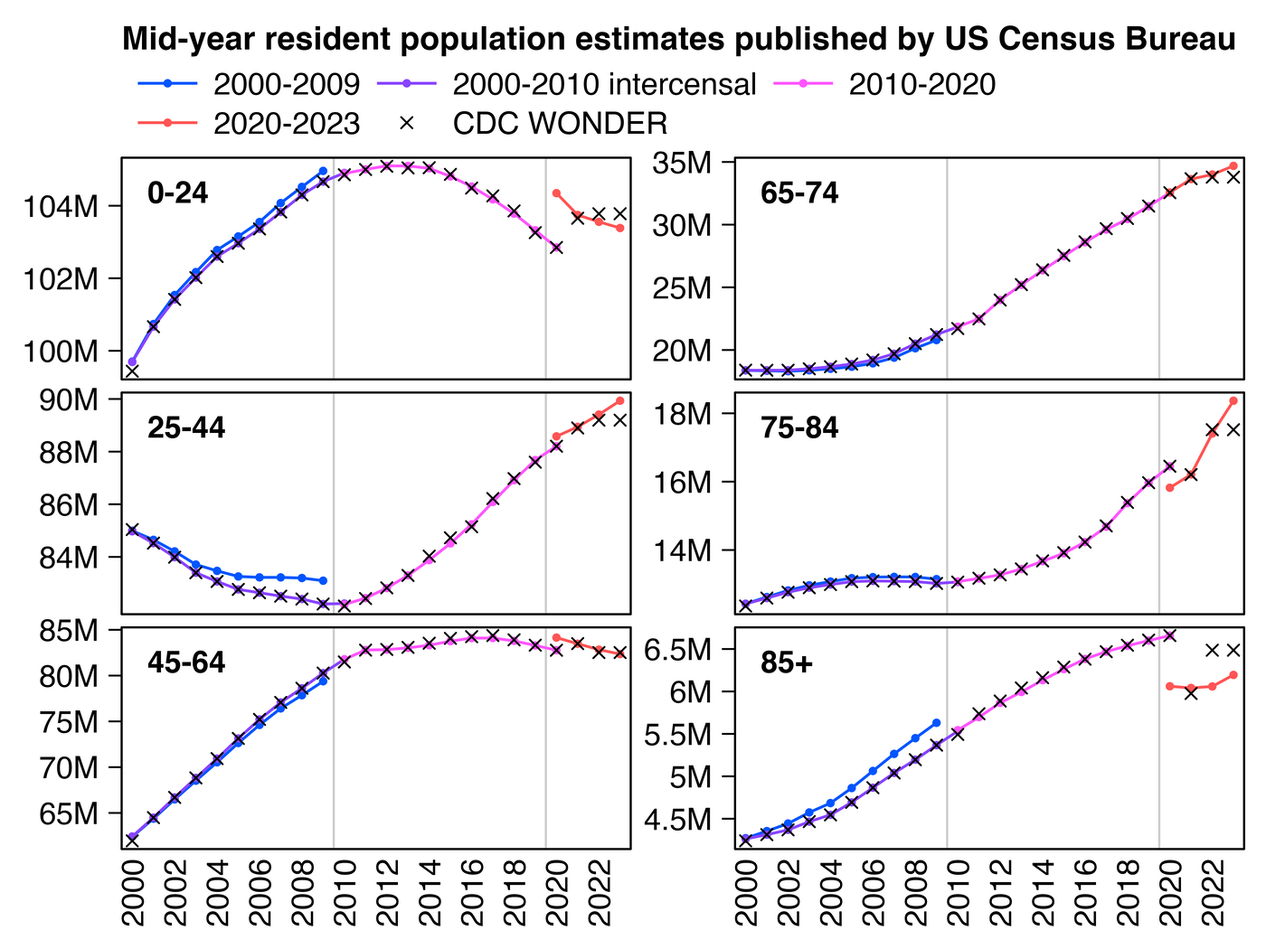
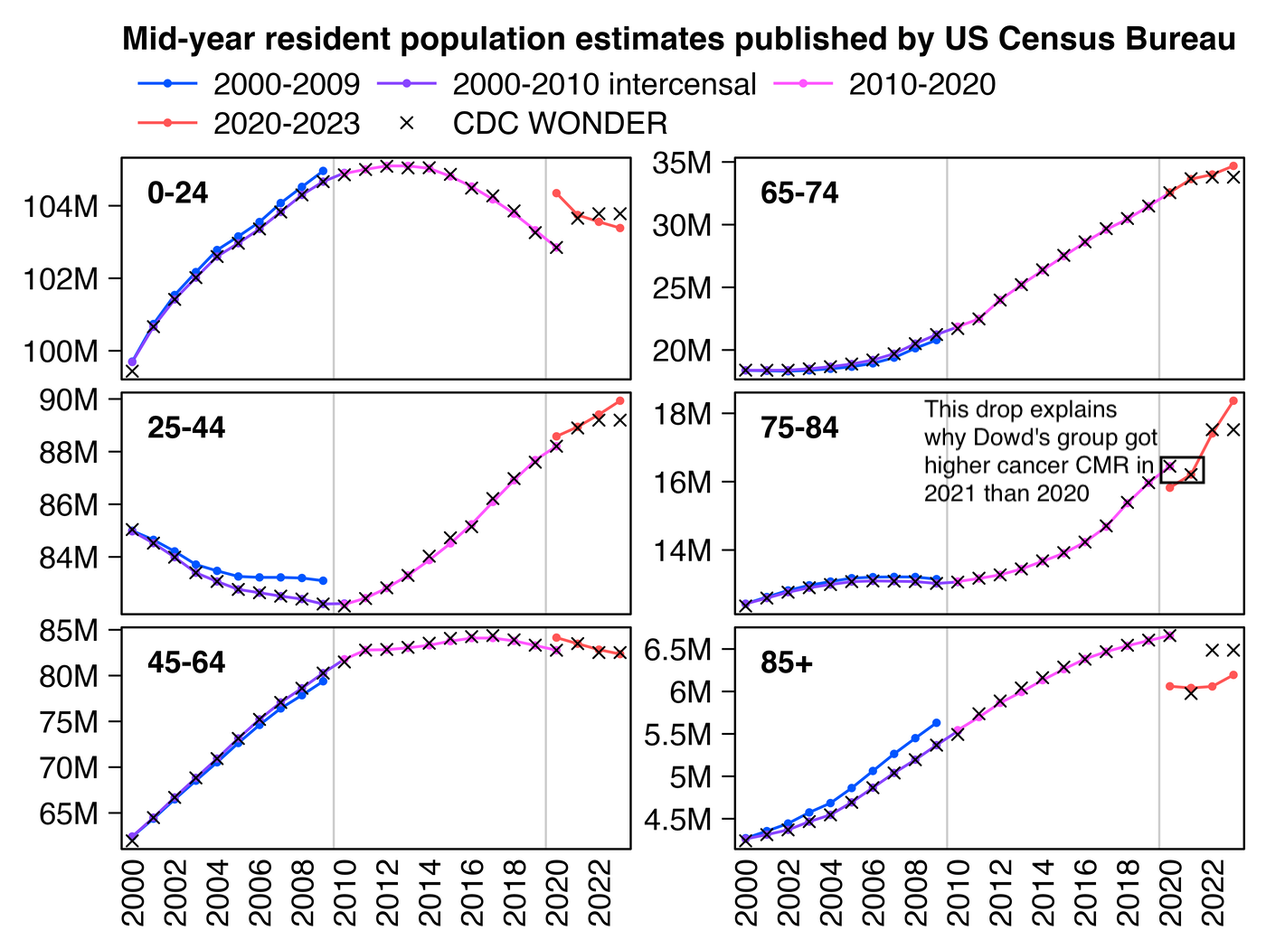
a

Changed region(s): [[0.7371, 0.4267, 0.9521, 0.5486]]

diff --git a/dowd.html b/dowd.html
@@ -77,16 +77,16 @@ blockquote blockquote blockquote,blockquote blockquote .quote,blockquote .quote 
 <div class="width5">
 <img src="i/debunk-dowd-2.jpg">
 </div>
-<p>But then I realized the difference was because Alegria and Nunes wrote that they downloaded data from CDC WONDER in December 2022, so at the time CDC WONDER still used the 2021 population estimates for 2022, in the same way that in March 2024 when I took the screenshot below, CDC WONDER still used the 2022 population estimates for 2023 and 2024:</p>
+<p>But then I realized the difference was because Alegria and Nunes wrote that they downloaded the data from CDC WONDER in December 2022, so at the time CDC WONDER still used the 2021 population estimates for 2022, in the same way that in March 2024 when I took the screenshot below, CDC WONDER still used the 2022 population estimates for 2023 and 2024:</p>
 <div class="width5">
 <img src="i/debunk-dowd-4.jpg">
 </div>
-<p>In the table above if you calculate the mortality rate for 2022 using the 2021 population size, it's <code>176784/16206075*1e5</code> or about 1091, which matches Dowd's preprint.</p>
-<p>In the plot below I used the population sizes returned by CDC WONDER, which still used 2022 population estimates for 2023 at the time I downloaded the data even though the 2023 population estimates had already been published at the time by the Census Bureau:</p>
+<p>In the screenshot above if you calculate the mortality rate for 2022 by dividing the 2022 deaths by the 2021 population size, it's <code>176784/16206075*1e5</code> which is about 1091, so it matches the plot in Dowd's preprint.</p>
+<p>In the plot below I used the population sizes returned by CDC WONDER, which still used 2022 population estimates for 2023 when I downloaded the data even though the 2023 population estimates had already been published at the time by the Census Bureau:</p>
 <div class="width6">
 <img src="i/debunk-dowd-3.png">
 </div>
-<p>However next I realized that the reason why the CMR increased between 2020 and 2021 is that CDC WONDER uses population estimates based on the 2010 census for 2010 to 2020 but population estimates based on the 2020 census from 2021 onwards. And if you look at the mid-year resident resident population estimate for ages 75 to 84, it fell from 16,451,547 in the vintage 2020 release that was based on the 2010 census to 15,822,264 in the vintage 2023 release that was based on the 2020 census:</p>
+<p>However next I realized that the reason why the CMR increased between 2020 and 2021 is that CDC WONDER uses population estimates based on the 2010 census for 2020 but population estimates based on the 2020 census from 2021 onwards. And if you look at the resident population estimate for ages 75 to 84 on July 1st 2020, it was 16,451,547 in the vintage 2020 release that was based on the 2010 census but it fell to 15,822,264 in the vintage 2023 release that was based on the 2020 census, so it fell by about 4%:</p>
 <div class="width7">
 <img src="i/debunk-dowd-popest.png">
 </div>
@@ -174,14 +174,90 @@ theme(axis.text=element_text(size=7,color=&quot;black&quot;),
 ggsave(&quot;1.png&quot;,width=4,height=3,dpi=350*4)
 system(&quot;magick 1.png -resize 25% 1.png&quot;)</pre>
 </div>
-<p>In the plot above the reason why the population estimates used by CDC WONDER are not perfectly equal to the magenta 2010-2020 line is because I used vintage 2020 population estimates for 2010-2020, but CDC WONDER uses vintage 2015 estimates for 2015, vintage 2016 estimates for 2016, and so on.</p>
+<p>In the plot above the population estimates used by CDC WONDER are not perfectly equal to the magenta line in 2010-2020, but it's because I used vintage 2020 population estimates for 2010-2020, but CDC WONDER uses vintage 2015 estimates for 2015, vintage 2016 estimates for 2016, and so on.</p>
 <p>In the plot above the 2000-2010 intercensal population estimates are based on both 2000 and 2010 censuses, and they were adjusted to get rid of the jump between the 2000-based and 2010-based population estimates. CDC WONDER uses the 2000-2010 intercensal population estimates for the years 2000 to 2009, but the 2010-2020 intercensal population estimates are only scheduled to be published in 2025 after which they will probably replace the old 2010-based population estimates at CDC WONDER, so for now CDC WONDER suffers from the jump in population estimates between 2020 and 2021.</p>
-<p>However while we are waiting for the new intercensal population estimates to be published, I developed a fairly straightforward way to adjust the 2010-2020 estimates to get rid of the jump. For example in ages 75 to 84, the ratio between the 2020-based vintage 2023 estimate for 2020 and the 2010-based vintage 2020 estimate for 2020 is <code>15822264/16451547</code> which is about 0.9617. So therefore I'm multiplying the population estimate for 2011 by about <code>.9+.1*.9617</code>, the population estimate for 2012 by about <code>.8+.2*.9617</code>, and so on: [<a href=ethical.html#Files_for_US_population_estimates_by_single_year_of_age_up_to_ages_100>ethical.html#Files_for_US_population_estimates_by_single_year_of_age_up_to_ages_100</a>]</p>
+<p>However while we are waiting for the new intercensal population estimates to be published, I developed a fairly straightforward way to adjust the 2010-2020 estimates to get rid of the jump. For example in ages 75 to 84, the ratio between the 2020-based vintage 2023 estimate for 2020 and the 2010-based vintage 2020 estimate for 2020 is <code>15822264/16451547</code> which is about 0.9617. So therefore I'm multiplying the population estimate for 2011 by about <code>.9+.1*.9617</code>, the population estimate for 2012 by about <code>.8+.2*.9617</code>, and so on (or actually in the plot below I'm doing the multiplication separately for each single year of age and then adding together the results for each age, but it's nearly equivalent to doing the multiplication for ages 75-84 aggregated together):</p>
 <div class="width7">
-<img src="i/ethical-popmerge.png">
+<img src="i/dowd-popmult.png">
 </div>
-<p>When I used the adjusted population estimates to calculate cancer CMR in ages 75 to 84, I now got lower CMR in 2021 than 2020:</p>
-<div class="width6">
+<div class="spoiler">
+<button>
+Show code
+</button><pre>library(data.table);library(ggplot2)
+
+agecut=\(x,y)cut(x,c(y,Inf),paste0(y,c(paste0(&quot;-&quot;,y[-1]-1),&quot;+&quot;)),T,F)
+kim=\(x)ifelse(x&gt;=1e3,ifelse(x&gt;=1e6,paste0(x/1e6,&quot;M&quot;),paste0(x/1e3,&quot;k&quot;)),x)
+
+new=fread(&quot;https://www2.census.gov/programs-surveys/popest/datasets/2020-2023/national/asrh/nc-est2023-agesex-res.csv&quot;)
+old=fread(&quot;https://www2.census.gov/programs-surveys/popest/datasets/2010-2020/national/asrh/nc-est2020-agesex-res.csv&quot;)
+
+old=old[SEX==0&amp;AGE!=999,.(age=AGE,pop=unlist(.SD[,-(1:4)]),year=rep(2010:2020,each=.N))]
+new=new[SEX==0&amp;AGE!=999,.(age=AGE,pop=unlist(.SD[,-(1:3)]),year=rep(2020:2023,each=.N))]
+
+mult=merge(old[year==2020],new[year==2020,.(age,new=pop)])[,.(ratio=new/pop,age)]
+mult=merge(old,mult)[,mult:=(year-2010)/10]
+mult=mult[,.(age,year,pop=((1-mult)*1+mult*ratio)*pop)]
+
+won=fread(&quot;http://sars2.net/f/wondercanceryearlysingle.csv&quot;)[age&lt;85,.(year,pop,age)]
+won=rbind(won,fread(&quot;http://sars2.net/f/wondercanceryearlyten.csv&quot;)[cause==cause[1]&amp;age==85,.(year,pop,age)])
+
+p=cbind(old,z=&quot;2010-2020&quot;)
+p=rbind(p,cbind(mult,z=&quot;2010-2020 multiplied by linear slope&quot;))
+p=rbind(p,cbind(new,z=&quot;2020-2023&quot;))
+p=rbind(p,cbind(won,z=&quot;CDC WONDER&quot;))
+p[,z:=factor(z,unique(z))]
+
+ages=c(0,25,45,65,75,85)
+p=p[,.(pop=sum(pop)),.(z,year,age=agecut(age,ages))]
+
+xstart=2010;xend=2023;xbreak=seq(xstart-.5,xend+.5,.5);xlab=ifelse(xbreak%%1==0,xbreak,&quot;&quot;)
+
+ggplot(p,aes(x=year,y=pop))+
+coord_cartesian(clip=&quot;off&quot;)+
+facet_wrap(~age,ncol=2,dir=&quot;v&quot;,scales=&quot;free_y&quot;)+
+geom_vline(xintercept=c(2009.5,2019.5),color=&quot;gray80&quot;,linewidth=.23)+
+geom_line(aes(color=z,alpha=z),linewidth=.3)+
+geom_point(aes(color=z,shape=z,size=z),stroke=.3)+
+geom_text(fontface=2,data=p[,max(pop),age],aes(label=paste0(&quot;\n   &quot;,age,&quot;   \n&quot;),y=V1),x=xstart-.5,lineheight=.4,hjust=0,vjust=1,size=grid::convertUnit(unit(7,&quot;pt&quot;),&quot;mm&quot;))+
+labs(title=&quot;Mid-year resident population estimates published by US Census Bureau&quot;,x=NULL,y=NULL)+
+scale_x_continuous(limits=c(xstart-.5,xend+.5),breaks=xbreak,labels=xlab,expand=c(0,0))+
+scale_y_continuous(labels=kim,breaks=\(x)Filter(\(y)y&gt;min(x)+(max(x)-min(x))*.05,pretty(x,4)),expand=c(.04,0))+
+scale_color_manual(values=c(&quot;#ff55ff&quot;,&quot;gray60&quot;,&quot;#ff5555&quot;,&quot;black&quot;))+
+scale_shape_manual(values=c(16,16,16,4))+
+scale_alpha_manual(values=c(1,1,1,0))+
+scale_size_manual(values=c(.7,.7,.7,1))+
+guides(color=guide_legend(nrow=2,byrow=T))+
+theme(axis.text=element_text(size=7,color=&quot;black&quot;),
+  axis.text.x=element_text(angle=90,vjust=.5,hjust=1),
+  axis.ticks=element_line(linewidth=.2,color=&quot;black&quot;),
+  axis.ticks.length=unit(3,&quot;pt&quot;),
+  axis.ticks.length.x=unit(0,&quot;pt&quot;),
+  legend.background=element_blank(),
+  legend.box.spacing=unit(0,&quot;pt&quot;),
+  legend.justification=&quot;left&quot;,
+  legend.key=element_blank(),
+  legend.key.height=unit(8,&quot;pt&quot;),
+  legend.key.width=unit(17,&quot;pt&quot;),
+  legend.margin=margin(-2,,4),
+  legend.position=&quot;top&quot;,
+  legend.spacing.x=unit(2,&quot;pt&quot;),
+  legend.spacing.y=unit(1,&quot;pt&quot;),
+  legend.text=element_text(size=7,vjust=.5),
+  legend.title=element_blank(),
+  panel.background=element_blank(),
+  panel.border=element_rect(fill=NA,linewidth=.23),
+  panel.spacing.x=unit(3,&quot;pt&quot;),
+  panel.spacing.y=unit(3,&quot;pt&quot;),
+  plot.margin=margin(5,5,5,5),
+  plot.subtitle=element_text(size=7,margin=margin(,,3)),
+  plot.title=element_text(size=7.4,face=2,margin=margin(1,,4)),
+  strip.background=element_blank(),
+  strip.text=element_blank())
+ggsave(&quot;1.png&quot;,width=4,height=3,dpi=350*4)
+system(&quot;magick 1.png -resize 25% 1.png&quot;)</pre>
+</div>
+<p>In the next plot my improved population estimates are the same as the gray line in my plot above in 2010-2019 combined with the red line in 2020-2023. The improved population estimates gave me lower cancer CMR in 2021 than 2020:</p>
+<div class="width8">
 <img src="i/statistic-dowd-improved.png">
 </div>
 <div class="spoiler">
@@ -203,11 +279,12 @@ t=t[age%in%75:84&amp;year!=2024]
 a=t[,lapply(.SD,sum,na.rm=T),year,.SDcols=4:7]
 
 years=unique(t$year)
-p=a[,.(x=year,y=dead,old=NA,group=1,linetype=1,color=1,lab=&quot;Deaths&quot;)]
-p=rbind(p,a[,.(x=year,y=dead/pop*1e5,old=dead/oldpop*1e5,group=2,linetype=1,color=2,lab=&quot;CMR per 100k&quot;)])
-p=rbind(p,t[,.(y=sum(dead/pop*std)*1e5,old=sum(dead/oldpop*std)*1e5,group=3,linetype=1,color=3,lab=&quot;ASMR per 100k&quot;),.(x=year)])
-p=rbind(p,a[,.(x=year,y=pop,old=oldpop,group=4,linetype=1,color=4,lab=&quot;Population estimates&quot;)])
-p[,color:=factor(color)][,group:=factor(group)]
+p=a[,.(x=year,y=dead,old=NA,group=&quot;Deaths&quot;)]
+p=rbind(p,a[,.(x=year,y=dead/pop*1e5,old=dead/oldpop*1e5,group=&quot;CMR per 100k&quot;)])
+p=rbind(p,t[,.(y=sum(dead/pop*std)*1e5,old=sum(dead/oldpop*std)*1e5,group=&quot;ASMR per 100k&quot;),.(x=year)])
+p=rbind(p,a[,.(x=year,y=pop,old=oldpop,group=&quot;Population estimates&quot;)])
+p=p[,.(x,y=c(y,old),group,z=rep(c(&quot;Improved population estimates&quot;,&quot;Dowd&#39;s population estimates&quot;),each=.N))]
+p[,group:=factor(group,unique(group))][,z:=factor(z,unique(z))]
 
 xstart=1999;xend=2023
 xbreak=seq(xstart-.5,xend+.5,.5);xlab=c(rbind(&quot;&quot;,substr(xstart:xend,3,4)),&quot;&quot;)
@@ -216,28 +293,22 @@ color=c(&quot;black&quot;,hcl(225,110,45),&quot;#cc0000&quot;,&quot;#00bb00&quot
 
 sub=&quot;\u00a0    Dowd&#39;s population estimates are the population sizes returned by CDC WONDER in 2023, when the 2021 population size was used for 2022 and 2023.
      The improved population estimates use vintage 2020 population estimates for 2010-2019 and vintage 2023 population estimates for 2020-2023. In order to get rid of a jump in the population estimates between 2019 and 2020, the population estimates based on the 2010 census were multiplied by a linear slope so that they were equal in 2020 to the population estimates based on the 2020 census.
-     Population estimates were downloaded from www2.census.gov/programs-surveys/popest/
-tables. ASMR was calculated by single year of age so that the vintage 2023 resident population estimates for the year 2020 were used as the standard population.&quot;
+     Population estimates were downloaded from www2.census.gov/programs-surveys/popest/tables. ASMR was calculated by single year of age so that the vintage 2023 resident population estimates for the year 2020 were used as the standard population.&quot;
 
-linelab=c(&quot;Dowd&#39;s population estimates&quot;,&quot;Improved population estimates&quot;)
-
-label=p[,.(min=min(y),max=max(y),min2=min(y[x&lt;2004]),max2=max(y[x&lt;2004])),group]
-p=merge(p,label[,.(laby=ifelse(min2&gt;(min+max)/2,min2-(max-min)*.2,max2+(max-min)*.2)),group])
-
-ggplot(p,aes(x,y,color=color))+
-facet_wrap(~group,ncol=1,scales=&quot;free&quot;)+
-geom_line(aes(linetype=linelab[2]),linewidth=.4)+
-geom_line(aes(y=old,linetype=linelab[1]),linewidth=.4)+
-geom_point(stroke=0,size=.8)+
-geom_text(data=p[rowid(lab)==1&amp;lab!=&quot;&quot;],aes(label=lab,y=laby),x=1999,hjust=0,size=2.5,show.legend=F)+
+ggplot(p,aes(x,y,color=group))+
+facet_wrap(~group,ncol=2,dir=&quot;v&quot;,scales=&quot;free&quot;)+
+geom_line(aes(alpha=z),linewidth=.4)+
+geom_point(aes(alpha=z),stroke=0,size=.8)+
+geom_text(data=p[,max(y,na.rm=T),group],aes(label=group,y=V1),x=(xstart+xend)/2,hjust=.5,vjust=1.5,size=2.5,show.legend=F)+
 labs(title=&quot;CDC WONDER, ages 75-84: underlying cause of death C00-D48 (Neoplasms)&quot;,x=NULL,y=NULL)+
 scale_x_continuous(limits=c(xstart-.5,xend+.5),breaks=xbreak,labels=xlab,expand=expansion(0))+
-scale_y_continuous(breaks=pretty,labels=kim,expand=expansion(.03))+
-coord_cartesian(clip=&quot;off&quot;)+
+scale_y_continuous(breaks=pretty,labels=kim,expand=c(.03,0))+
 scale_color_manual(values=color)+
-scale_linetype_manual(values=c(&quot;42&quot;,&quot;solid&quot;),labels=linelab)+
+scale_alpha_manual(values=c(1,.3))+
+coord_cartesian(clip=&quot;off&quot;)+
 guides(color=&quot;none&quot;)+
 theme(axis.text=element_text(size=7,color=&quot;black&quot;),
+  axis.text.x=element_text(angle=90,vjust=.5,hjust=1),
   axis.ticks=element_line(linewidth=.23,color=&quot;black&quot;),
   axis.ticks.length=unit(3,&quot;pt&quot;),
   axis.ticks.length.x=unit(0,&quot;pt&quot;),
@@ -261,47 +332,100 @@ theme(axis.text=element_text(size=7,color=&quot;black&quot;),
   plot.title=element_text(size=7.4,face=2,margin=margin(1,,3)),
   strip.background=element_blank(),
   strip.text=element_blank())
-ggsave(&quot;1.png&quot;,width=4.2,height=4,dpi=380*4)
+ggsave(&quot;1.png&quot;,width=5,height=3.7,dpi=380*4)
 system(paste0(&quot;magick 1.png -resize 25% 1.png;mar=30;w=`identify -format %w 1.png`;magick 1.png \\( -size $[w-mar*2]x -font Arial -interline-spacing -3 -pointsize 38 caption:&#39;&quot;,gsub(&quot;&#39;&quot;,&quot;&#39;\\\\&#39;&#39;&quot;,sub),&quot;&#39; -gravity southwest -splice $[mar]x14 \\) -append 1.png&quot;))</pre>
 </div>
-<p>Dowd's tweet said: <span class="quote">&quot;Excess Cancer as Underlying Cause (UC) for 75-84 saw -0.1% in 20 (z-score -0.3), +4.8% in 21 (z-score 10.1), +11.5% in 22 (z-score 24.0)&quot;</span>. When I used the 2021 population estimate for 2022 and I used a 2010-2019 linear trend like Dowd, for some reason my z-score for 2022 was about 22.1 and not 24.0. But my z-score fell to only about 6.0 when I used the 2022 population estimate for 2022 instead:</p>
-<pre>&gt; d=data.frame(year=2010:2023)
-&gt; d$dead=c(161735,159986,158811,157768,158844,158105,158660,160652,163543,165432,167957,169929,176784,183053)
-&gt; d$pop=c(13061122,13175230,13272634,13446519,13682690,13923174,14233534,14706551,15394374,15969872,16451547,16206075,17520545,17520545)
-&gt; d$cmr=d$dead/d$pop*1e5
-&gt; pred=d$year%in%2010:2019
-&gt; d$trend=predict(lm(cmr~year,d[pred,]),d)
-&gt; d$excess=d$cmr-d$trend
-&gt; sd=sd(d$excess[pred])
-&gt; d$sigma=d$excess/sd
-&gt; (t$dead[t$year==2022]/t$pop[t$year==2021]*1e5-t$trend[t$year==2022])/sd
-[1] 22.16794
-&gt; print.data.frame(mutate_if(d,is.double,round,1),row.names=F)
- year   dead      pop    cmr  trend excess sigma
- 2010 161735 13061122 1238.3 1240.8   -2.5  -0.5
- 2011 159986 13175230 1214.3 1218.9   -4.6  -0.9
- 2012 158811 13272634 1196.5 1197.1   -0.5  -0.1
- 2013 157768 13446519 1173.3 1175.2   -1.9  -0.4
- 2014 158844 13682690 1160.9 1153.4    7.6   1.5
- 2015 158105 13923174 1135.6 1131.5    4.1   0.8
- 2016 158660 14233534 1114.7 1109.6    5.1   1.0
- 2017 160652 14706551 1092.4 1087.8    4.6   0.9
- 2018 163543 15394374 1062.4 1065.9   -3.6  -0.7
- 2019 165432 15969872 1035.9 1044.0   -8.1  -1.6
- 2020 167957 16451547 1020.9 1022.2   -1.3  -0.3
- 2021 169929 16206075 1048.6 1000.3   48.2   9.5
- 2022 176784 17520545 1009.0  978.5   30.5   6.0
- 2023 183053 17520545 1044.8  956.6   88.2  17.4</pre>
+<p>Dowd's tweet said: <span class="quote">&quot;Excess Cancer as Underlying Cause (UC) for 75-84 saw -0.1% in 20 (z-score -0.3), +4.8% in 21 (z-score 10.1), +11.5% in 22 (z-score 24.0)&quot;</span>. When I used the 2021 population estimate for 2022 and I used a 2010-2019 linear trend like Dowd, for some reason my z-score for 2022 was about 22.2 and not 24.0. But my z-score fell to only about 6.0 when I used the 2022 population estimate for 2022 instead:</p>
+<pre>d=data.frame(year=2010:2023)
+d$dead=c(161735,159986,158811,157768,158844,158105,158660,160652,163543,165432,167957,169929,176784,183053)
+
+# Population estimates returned by CDC WONDER: 2010-based estimates
+# are used for 2010-2020 and 2020-based estimates are used from 2021
+# onwards. The 2022 population size is used for 2023.
+d$pop=c(13061122,13175230,13272634,13446519,13682690,13923174,14233534,14706551,15394374,15969872,16451547,16206075,17520545,17520545)
+
+d$cmr=d$dead/d$pop*1e5
+fitting=d$year%in%2010:2019 # fitting period of baseline
+d$trend=predict(lm(cmr~year,d[fitting,]),d) # 2010-2019 linear regression
+d$excess=d$cmr-d$trend
+sd=sd(d$excess[fitting]) # standard deviation of excess deaths during fitting period
+d$sigma=d$excess/sd # z-score of excess deaths divided by standard deviation
+
+d$sigma[d$year==2022]
+# 6.024771 (sigma for 2022 deaths divided by 2022 population size)
+
+(d$dead[d$year==2022]/d$pop[d$year==2021]*1e5-d$trend[d$year==2022])/sd
+# 22.16794 (sigma for 2022 deaths divided by 2021 population size)
+
+print.data.frame(mutate_if(d,is.double,round,1),row.names=F)
+# year   dead      pop    cmr  trend excess sigma
+# 2010 161735 13061122 1238.3 1240.8   -2.5  -0.5
+# 2011 159986 13175230 1214.3 1218.9   -4.6  -0.9
+# 2012 158811 13272634 1196.5 1197.1   -0.5  -0.1
+# 2013 157768 13446519 1173.3 1175.2   -1.9  -0.4
+# 2014 158844 13682690 1160.9 1153.4    7.6   1.5
+# 2015 158105 13923174 1135.6 1131.5    4.1   0.8
+# 2016 158660 14233534 1114.7 1109.6    5.1   1.0
+# 2017 160652 14706551 1092.4 1087.8    4.6   0.9
+# 2018 163543 15394374 1062.4 1065.9   -3.6  -0.7
+# 2019 165432 15969872 1035.9 1044.0   -8.1  -1.6
+# 2020 167957 16451547 1020.9 1022.2   -1.3  -0.3
+# 2021 169929 16206075 1048.6 1000.3   48.2   9.5
+# 2022 176784 17520545 1009.0  978.5   30.5   6.0
+# 2023 183053 17520545 1044.8  956.6   88.2  17.4</pre>
+<p>And when I additionally multiplied the 2010-2020 population estimates by a linear slope so they matched the vintage 2023 estimates in 2020, my z-score for excess deaths in 2022 fell to about -2.6:</p>
+<pre># vintage 2020 estimates based on 2010 census
+old=fread(&quot;https://www2.census.gov/programs-surveys/popest/datasets/2010-2020/national/asrh/nc-est2020-agesex-res.csv&quot;)
+
+# vintage 2023 estimates based on 2020 census
+new=fread(&quot;https://www2.census.gov/programs-surveys/popest/datasets/2020-2023/national/asrh/nc-est2023-agesex-res.csv&quot;)
+
+old=old[SEX==0&amp;AGE!=999,.(age=AGE,pop=unlist(.SD[,-(1:4)]),year=rep(2010:2020,each=.N))]
+new=new[SEX==0&amp;AGE!=999,.(age=AGE,pop=unlist(.SD[,-(1:3)]),year=rep(2020:2023,each=.N))]
+
+# determine the ratio between new and old population estimates in 2020 for each age
+o=merge(merge(old[year==2020,.(age,old=pop)],new[year==2020,.(age,new=pop)])[,.(age,ratio=new/old)],old)
+
+# multiply old population estimates for each age by a linear slope so they match new estimates in 2020
+o=rbind(o[year!=2020,.(year,age,pop=round(pop*(1-(((year-2010)/10))*(1-ratio))))],new)
+
+# add together population estimates for ages 75-84 and add a column for cancer deaths from CDC WONDER
+d=o[age%in%75:84,.(pop=sum(pop)),year]
+d$dead=c(161735,159986,158811,157768,158844,158105,158660,160652,163543,165432,167957,169929,176784,183053)
+
+d$cmr=d$dead/d$pop*1e5
+fitting=d$year%in%2010:2019 # fitting period of baseline
+d$trend=predict(lm(cmr~year,d[fitting,]),d) # linear regression
+d$excess=d$cmr-d$trend
+sd=sd(d$excess[fitting]) # standard deviation of excess deaths during fitting period
+d$sigma=d$excess/sd # z-score of excess deaths divided by standard deviation
+
+print(round(d,1),r=F)
+# year      pop   dead    cmr  trend excess sigma
+# 2010 13078302 161735 1236.7 1241.5   -4.8  -0.8
+# 2011 13115506 159986 1219.8 1223.9   -4.1  -0.7
+# 2012 13170459 158811 1205.8 1206.4   -0.6  -0.1
+# 2013 13287408 157768 1187.3 1188.9   -1.5  -0.3
+# 2014 13460363 158844 1180.1 1171.4    8.7   1.4
+# 2015 13635446 158105 1159.5 1153.8    5.7   0.9
+# 2016 13902566 158660 1141.2 1136.3    4.9   0.8
+# 2017 14286363 160652 1124.5 1118.8    5.7   0.9
+# 2018 14898231 163543 1097.7 1101.3   -3.5  -0.6
+# 2019 15415405 165432 1073.2 1083.7  -10.6  -1.7
+# 2020 15822264 167957 1061.5 1066.2   -4.7  -0.8
+# 2021 16210654 169929 1048.3 1048.7   -0.4  -0.1
+# 2022 17411486 176784 1015.3 1031.2  -15.8  -2.6
+# 2023 18368097 183053  996.6 1013.6  -17.0  -2.8</pre>
 <p>There was an unusually low number of deaths in 1944 and 1945, but the earliest wave of baby boomers was born around mid-1946 so there was a huge increase in the number of births in 1946 and 1947: [<a href="https://www.calculatedriskblog.com/2010/04/us-births-per-year.html">https://www.calculatedriskblog.com/2010/04/us-births-per-year.html</a>]</p>
 <div class="width6">
 <img src="i/debunk-dowd-6.jpg">
 </div>
-<p>The next plot also shows how 2022 was the first year when the mid-year population estimates included a large number of people born after mid-1946. I used the population sizes returned by CDC WONDER, where the population size of ages 75-84 fell between 2020 and 2021 due to the switch to the 2020-based population estimates, even though it's not too easy to see from this plot:</p>
+<p>The next plot also shows how 2022 was the first year when the mid-year population estimates included a large number of people born after mid-1946 (I used the population sizes returned by CDC WONDER, where the population size of ages 75-84 fell between 2020 and 2021 due to the switch to the 2020-based population estimates, even though it's not too easy to see from this plot):</p>
 <div class="width6">
 <img src="i/debunk-dowd-7.png">
 </div>
 <p>An annoying feature at CDC WONDER is that it doesn't return population sizes for monthly or weekly data but only yearly data. However the US Census Bureau has actually produced monthly population estimates by single year of age, even though they seem to be interpolated from quarterly population estimates. [<a href="https://www2.census.gov/programs-surveys/popest/datasets/2020-2023/national/asrh/">https://www2.census.gov/programs-surveys/popest/datasets/2020-2023/national/asrh/</a>, <a href="https://www2.census.gov/programs-surveys/popest/datasets/2010-2020/national/asrh/">https://www2.census.gov/programs-surveys/popest/datasets/2010-2020/national/asrh/</a>] In the next plot in order to get rid of a jump in population estimates after the switch from the 2010-based to 2020-based population estimates, I used the same method as earlier to multiply the population estimates for 2010-2020 with a linear slope so that they matched the 2020-based estimates in 2020. [<a href=ethical.html#Files_for_US_population_estimates_by_single_year_of_age_up_to_ages_100>ethical.html#Files_for_US_population_estimates_by_single_year_of_age_up_to_ages_100</a>]</p>
-<p>In the plot below I calculated the blue line so that I first did a linear regression for the CMR of each age, and then I multiplied the population size of the age by the projected trend in CMR to get the expected deaths for the age, and I added together the expected deaths for all ages. The plot shows that there was a sharp turning point in the expected number of deaths around mid-2021, which was when the people born in mid-1946 started to turn 75:</p>
+<p>In the plot below I calculated the blue line so that I first did a linear regression for the CMR of each age, and then I multiplied the population size of the age by the projected trend in CMR to get the expected deaths for the age, and then I added together the expected deaths for all ages. The plot shows that there was a sharp turning point in the expected number of deaths around mid-2021, which was when the people born in mid-1946 started to turn 75:</p>
 <div class="width6">
 <img src="i/debunk-dowd-9.png">
 </div>
@@ -403,13 +527,13 @@ p=a[,.(x=year,y=dead,old=NA,group=&quot;Deaths&quot;)]
 p=rbind(p,a[,.(x=year,y=dead/pop*1e5,old=dead/oldpop*1e5,group=&quot;CMR per 100k&quot;)])
 p=rbind(p,t[,.(y=sum(dead/pop*std)*1e5,old=sum(dead/oldpop*std)*1e5,group=&quot;ASMR per 100k&quot;),.(x=year)])
 p=rbind(p,a[,.(x=year,y=pop,old=oldpop,group=&quot;Population estimates&quot;)])
-p[,group:=factor(group,unique(group))]
+p=p[,.(x,y=c(y,old),group,z=rep(c(&quot;Improved population estimates&quot;,&quot;Dowd&#39;s population estimates&quot;),each=.N))]
+p[,group:=factor(group,unique(group))][,z:=factor(z,unique(z))]
 
 xstart=1999;xend=2023
 xbreak=seq(xstart-.5,xend+.5,.5);xlab=c(rbind(&quot;&quot;,substr(xstart:xend,3,4)),&quot;&quot;)
 
 color=c(&quot;black&quot;,hcl(225,110,45),&quot;#cc0000&quot;,&quot;#00bb00&quot;)
-linelab=c(&quot;Dowd&#39;s population estimates&quot;,&quot;Improved population estimates&quot;)
 
 sub=&quot;\u00a0    Dowd&#39;s population estimates are the population sizes returned by CDC WONDER in 2023, when the 2021 population size was used for 2022 and 2023.
      The improved population estimates use vintage 2020 population estimates for 2010-2019 and vintage 2023 population estimates for 2020-2023. In order to get rid of a jump in the population estimates between 2019 and 2020, the population estimates based on the 2010 census were multiplied by a linear slope so that they were equal in 2020 to the population estimates based on the 2020 census.
@@ -417,16 +541,15 @@ sub=&quot;\u00a0    Dowd&#39;s population estimates are the population sizes ret
 
 ggplot(p,aes(x,y,color=group))+
 facet_wrap(~group,ncol=2,dir=&quot;v&quot;,scales=&quot;free&quot;)+
-geom_line(aes(linetype=linelab[2]),linewidth=.4)+
-geom_line(aes(y=old,linetype=linelab[1]),linewidth=.4)+
-geom_point(stroke=0,size=.8)+
-geom_text(data=p[,max(y),group],aes(label=group,y=V1),x=(xstart+xend)/2,hjust=.5,vjust=1.5,size=2.5,show.legend=F)+
+geom_line(aes(alpha=z),linewidth=.4)+
+geom_point(aes(alpha=z),stroke=0,size=.8)+
+geom_text(data=p[,max(y,na.rm=T),group],aes(label=group,y=V1),x=(xstart+xend)/2,hjust=.5,vjust=1.5,size=2.5,show.legend=F)+
 labs(title=&quot;CDC WONDER, ages 15-44: underlying cause of death C00-D48 (Neoplasms)&quot;,x=NULL,y=NULL)+
 scale_x_continuous(limits=c(xstart-.5,xend+.5),breaks=xbreak,labels=xlab,expand=expansion(0))+
 scale_y_continuous(breaks=pretty,labels=kim,expand=c(.03,0))+
-coord_cartesian(clip=&quot;off&quot;)+
 scale_color_manual(values=color)+
-scale_linetype_manual(values=c(&quot;21&quot;,&quot;solid&quot;),labels=linelab)+
+scale_alpha_manual(values=c(1,.3))+
+coord_cartesian(clip=&quot;off&quot;)+
 guides(color=&quot;none&quot;)+
 theme(axis.text=element_text(size=7,color=&quot;black&quot;),
   axis.text.x=element_text(angle=90,vjust=.5,hjust=1),

diff --git a/ethical.html b/ethical.html
@@ -865,6 +865,14 @@ ggsave(&quot;1.png&quot;,width=5.2,height=3.1,dpi=450)</pre>
 <div class="width5">
 <img src="i/ethical-wondernatality.jpg">
 </div>
+<p>CDC has also published the mortality data at CDC WONDER as plain text files in a fixed-width field format: <a href="https://www.cdc.gov/nchs/data_access/vitalstatsonline.htm#Mortality_Multiple">https://www.cdc.gov/nchs/data_access/vitalstatsonline.htm#Mortality_Multiple</a>. There's CSV versions of the files here: <a href="https://www.nber.org/research/data/mortality-data-vital-statistics-nchs-multiple-cause-death-data">https://www.nber.org/research/data/mortality-data-vital-statistics-nchs-multiple-cause-death-data</a>. The files contain one line for each dead person, but the state and county of residence and occurrence are omitted for privacy reasons. At first I got slightly more deaths in the files than at CDC WONDER, but I got the same count of deaths after I excluded lines where the tape location 20 for resident status was not 4 (foreign residents). So for example in 2020 I got 602,350 deaths where the UCD started with the letter C, which was identical to the result I got from CDC WONDER regardless of whether I looked at the final or provisional dataset:</p>
+<pre>$ wget https://ftp.cdc.gov/pub/Health_Statistics/NCHS/Datasets/DVS/mortality/mort2020us.zip
+$ unzip mort2020us.zip
+$ awk &#39;{if(substr($0,20,1)==4)next;a[substr($0,102,4),substr($0,65,2),substr($0,71,3),substr($0,146,4)]++}ENDFILE{for(i in a)print i,a[i]}&#39; {SUBSEP,OFS}=, VS20MORT.DUSMCPUB_r20220105|tr -d \ &gt;temp
+$ sed 1q temp # year, month, age, UCD, deaths
+2020,09,024,W31,1
+$ awk -F, &#39;$4~/^C/{x+=$5}END{print x}&#39; temp
+602350</pre>
 <h2>
 <a href=#Deaths_associated_with_pregnancy_and_childbirth id=Deaths_associated_with_pregnancy_and_childbirth>Deaths associated with pregnancy and childbirth</a>
 </h2>
@@ -2465,7 +2473,7 @@ lines(p$year,p$trend,type=&quot;l&quot;,lty=2,lwd=1.5)
 legend(&quot;topleft&quot;,legend=leg,lty=c(1,2),lwd=1.5)
 dev.off()</pre>
 </div>
-<p>The next plot shows that since 2020 there's even more excess deaths with MCD I10 (<span class="quote">&quot;Essential (primary) hypertension&quot;</span>) than excess deaths with MCD N17.9 (<span class="quote">&quot;Acute renal failure, unspecified&quot;</span>). So is there also a hypertension Holocaust according to John Beaudoin? Or is the primary cause of most deaths not actually hypertension?</p>
+<p>The next plot shows that since 2020 there's even more excess deaths with MCD I10 (<span class="quote">&quot;Essential (primary) hypertension&quot;</span>) than excess deaths with MCD N17.9 (<span class="quote">&quot;Acute renal failure, unspecified&quot;</span>). So is there also a hypertension Holocaust according to John Beaudoin? Or is the primary cause of most excess deaths not actually hypertension?</p>
 <div class="width7">
 <img src="i/ethical-kidney-8.png">
 </div>
